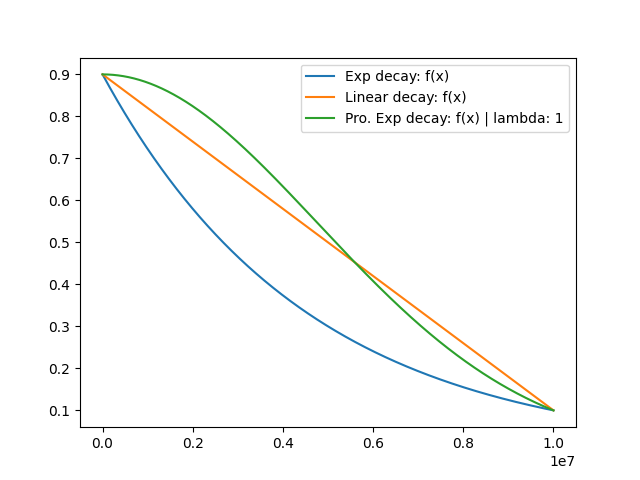
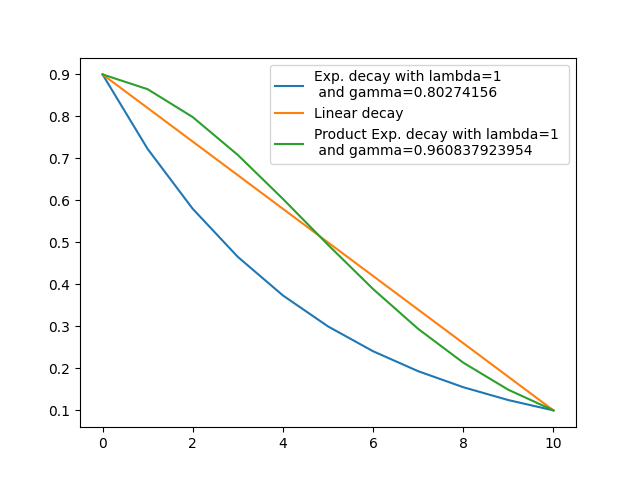
Added new scheduling function

diff --git a/src/utils/decay_comp.py b/src/utils/decay_comp.py
@@ -6,35 +6,35 @@ import matplotlib.pyplot as plt
 def log_base(x, base):
     return np.log(x) / np.log(base)
 
-end = 1e6
+end = 10
 inc = 1
 t = np.arange(0, end+inc, inc)
 n = len(t)
 a = t[0]
 e_0 = 0.9
 e_f = 0.1
+l = 1
 
 gamma = (e_f/e_0)**(1/end)
 y = e_0*gamma**t
-plt.plot(t, y, label='Exp decay: f(x)')
+plt.plot(t, y, label=f'Exp. decay with lambda={l} \n and gamma={gamma:.8f}')
 
 y = ((e_f - e_0)/end) * t + e_0
-plt.plot(t, y, label='Linear decay: f(x)')
+plt.plot(t, y, label=f'Linear decay')
 
 ########################################################################################
 k = n/2*(2*a+(n-1)*inc)
-l = 1
 
 gamma = (e_f/e_0)**(1/(k*l))
-print("Gamma:", gamma)
 y = []
 acc = e_0
 for i in t:
     acc = acc * gamma**(i*l)
+    print(gamma**(i*l))
     y.append(acc)
 
 y = np.array(y)
-plt.plot(t, y, label=f'Pro. Exp decay: f(x) | lambda: {l}')
+plt.plot(t, y, label=f'Product Exp. decay with lambda={l} \n and gamma={gamma:.12f}')
 
 plt.legend()
 plt.savefig('./example_decays.png')
